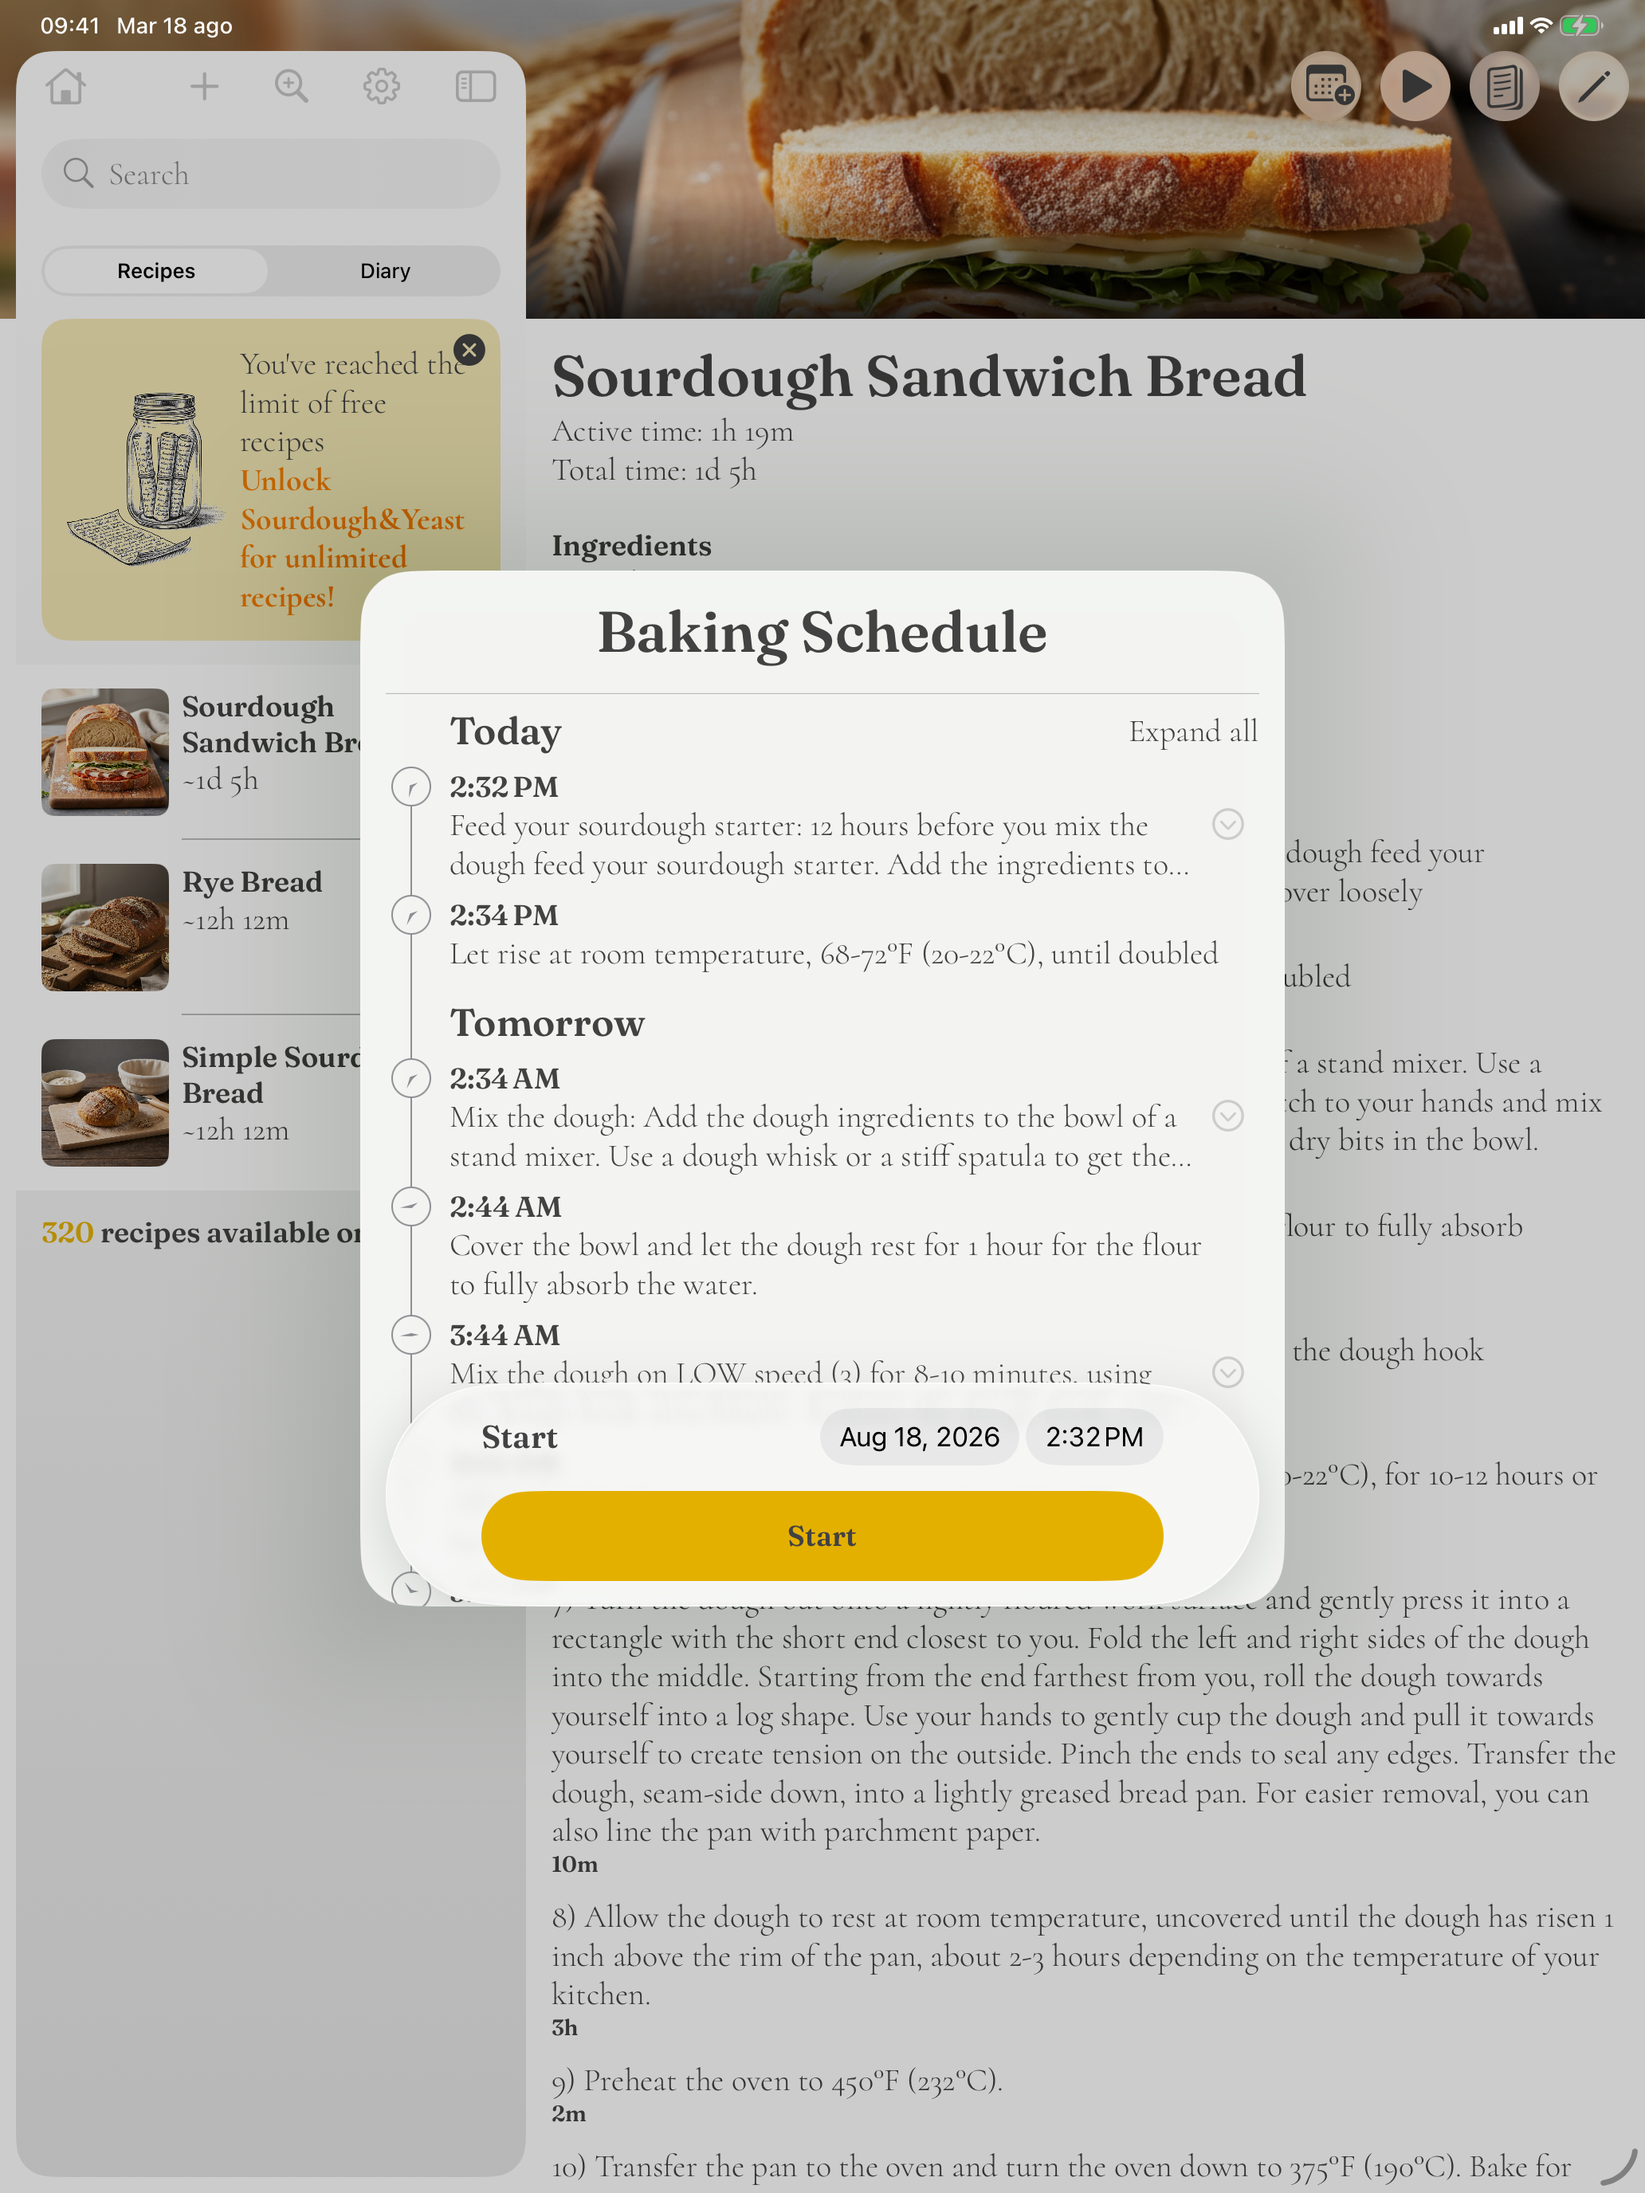
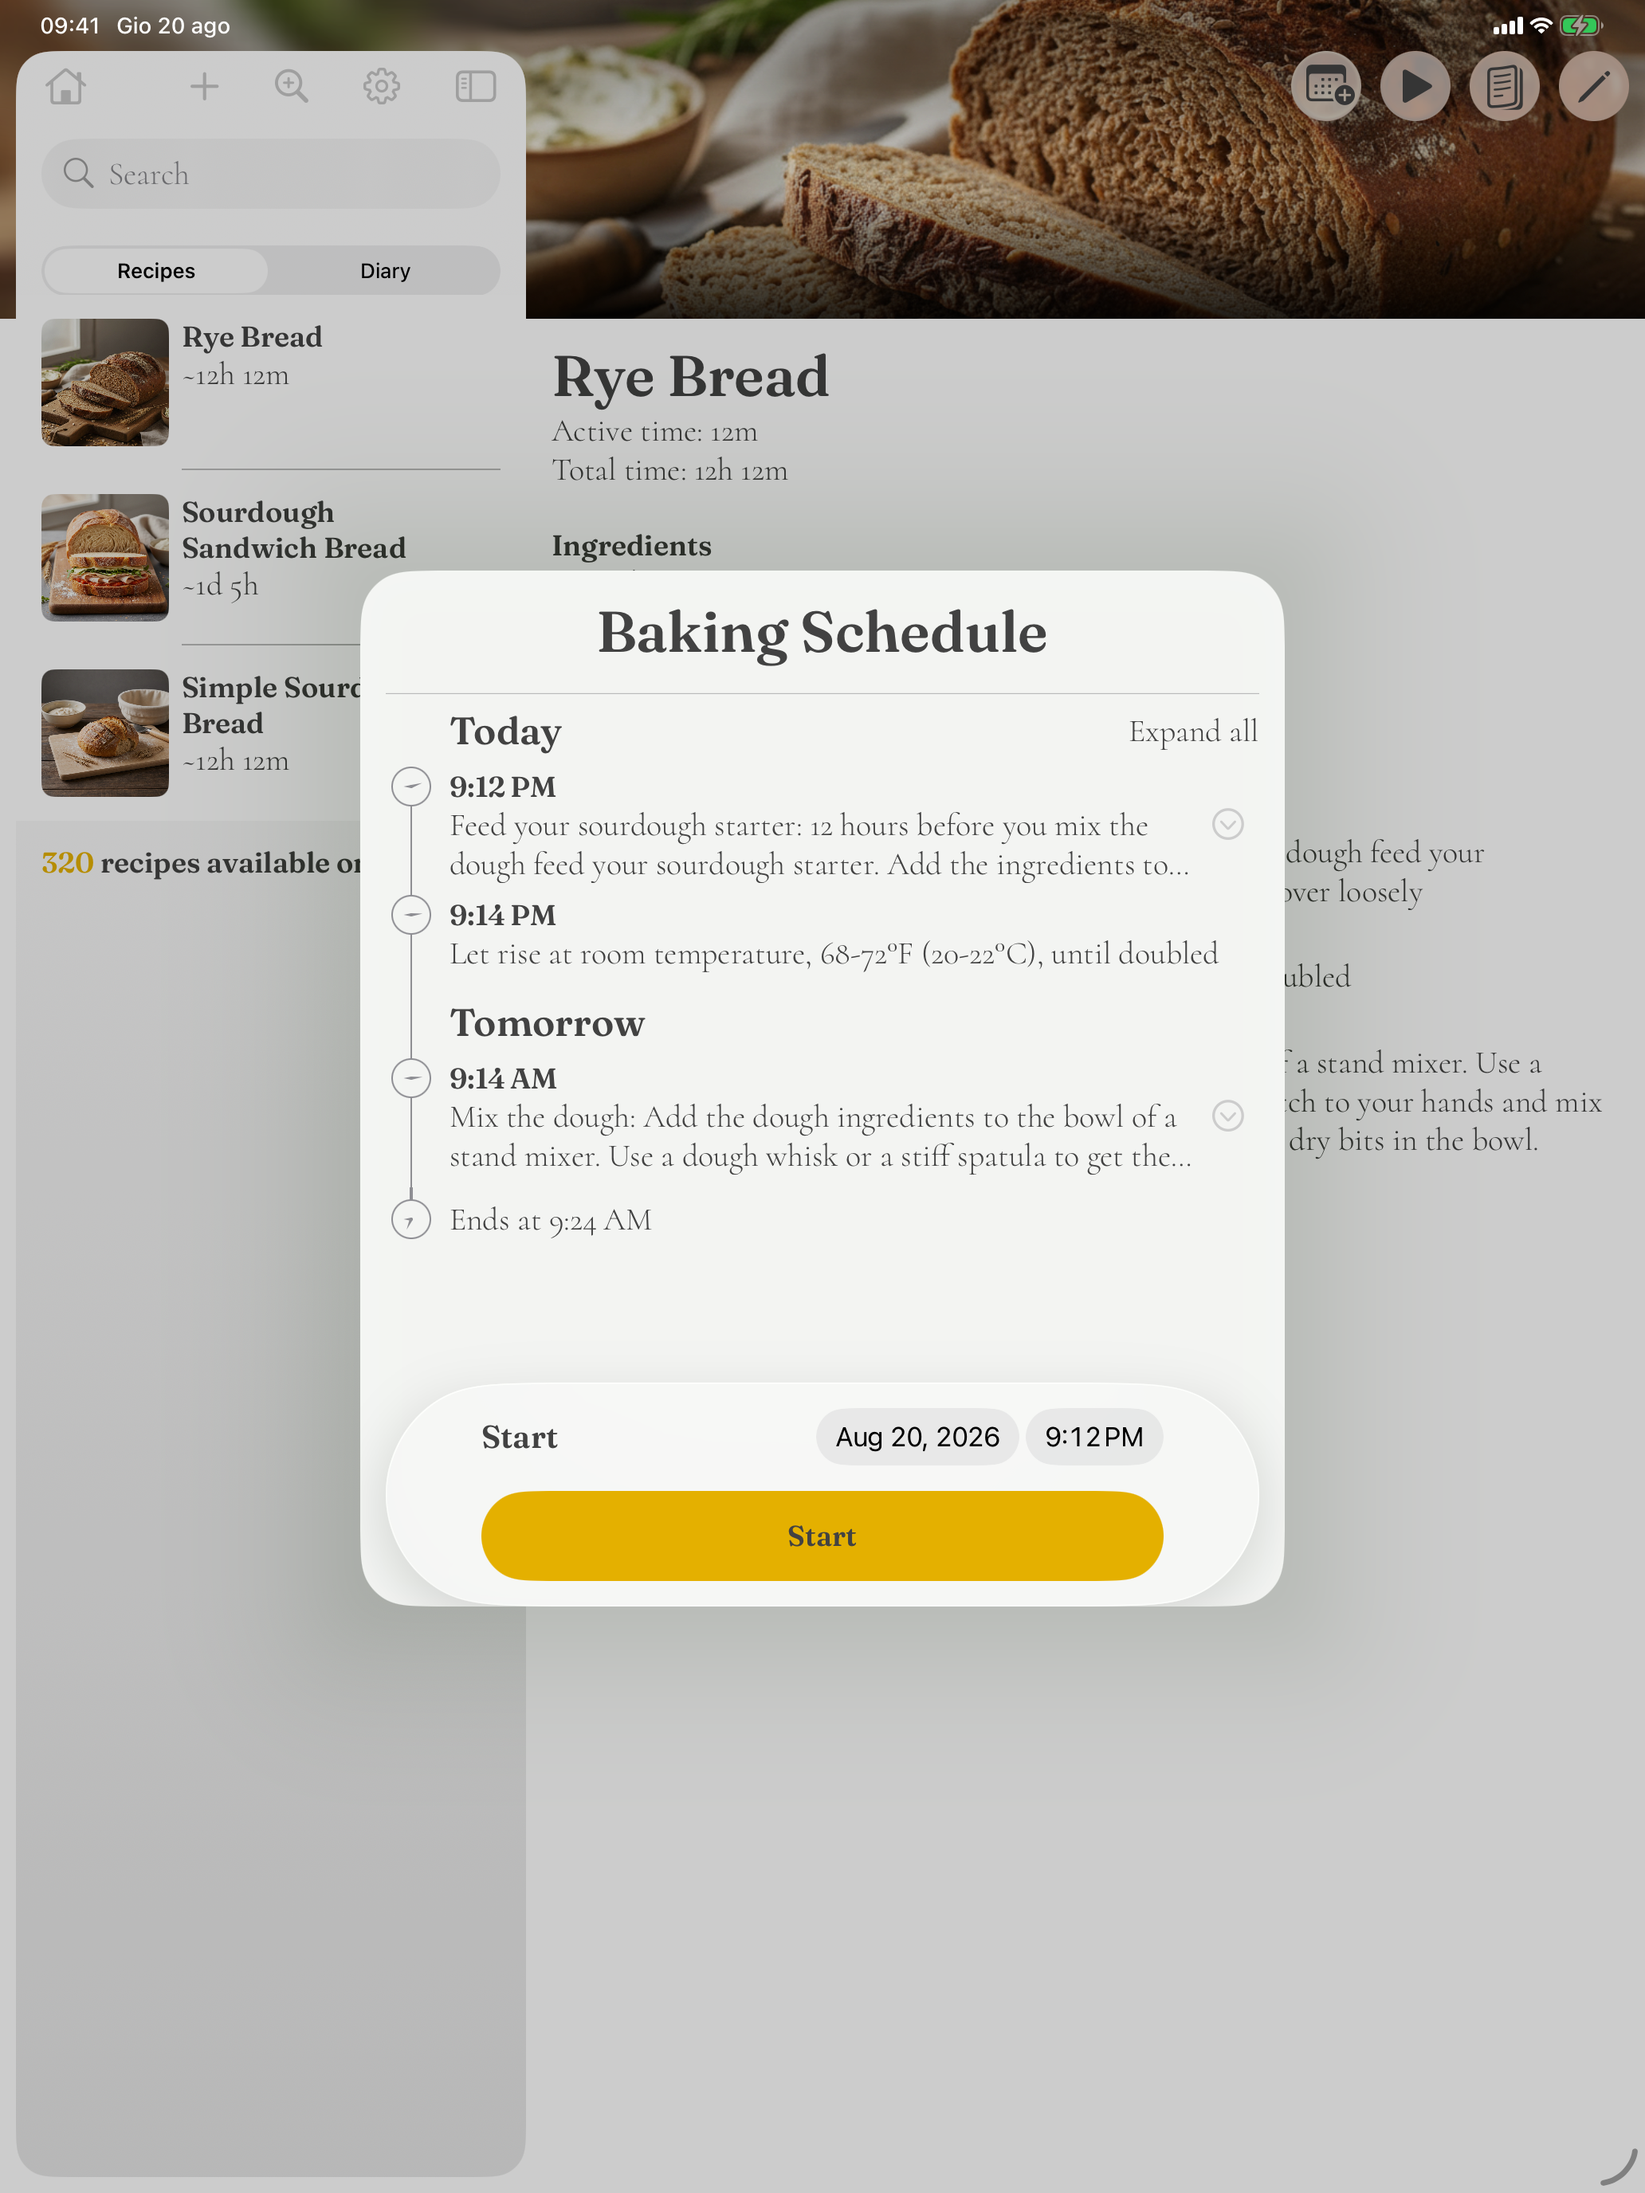
Updated images, again

diff --git a/assets/css/site.css b/assets/css/site.css
@@ -67,6 +67,15 @@ em {
     color: var(--color-accent);
 }
 
+a .app-name {
+    color: var(--color-accent-2);
+}
+a .app-name-suffix {
+    color: var(--color-text);
+}
+a .app-name:hover, a .app-name-suffix:hover {
+    color: var(--color-accent) !important;
+}
 /* ---- Page shell --------------------------------------------- */
 .shell { max-width: 1120px; margin: 0 auto; padding: 0 clamp(20px, 5vw, 24px); }
 .section { padding: 8px 0 80px; scroll-margin-top: 84px; }

diff --git a/_includes/nav.html b/_includes/nav.html
@@ -1,7 +1,7 @@
 <nav class="nav site-nav">
   <a class="nav-brand" href="index.html">
     <img src="assets/knead-icon.png" alt="Knead app icon">
-    KneadApp
+    <span class="app-name">Knead<span class="app-name-suffix">App</span></span>
   </a>
   <div class="nav-links">
     {% for item in site.data.nav %}
